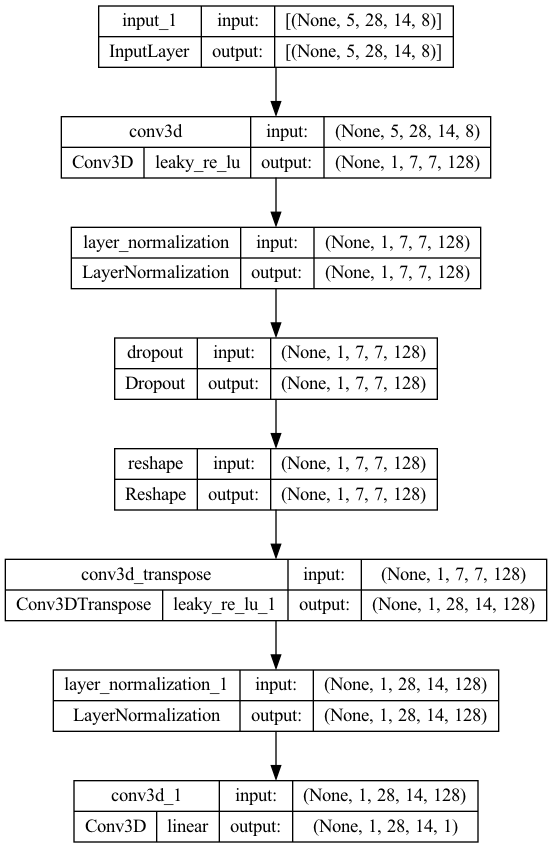
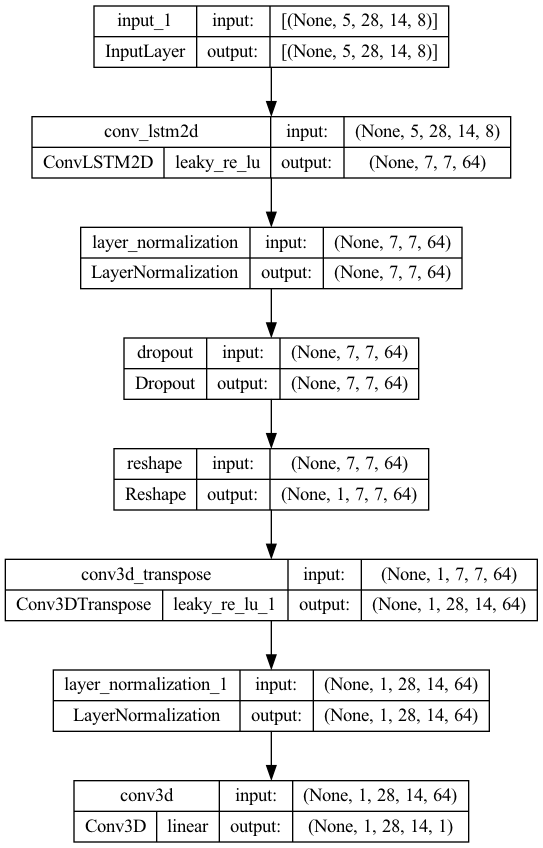
denoisetrans

diff --git a/ml/denoise3D_trans.py b/ml/denoise3D_trans.py
@@ -17,9 +17,9 @@ from ml.ml_utils import Funnel
 from ml.custom_keras_layers import RecombineLayer
 from ml.custom_keras_layers import TransformerBlock
 
-def MakeDenoise(config_path,
-                x_data_shape=(1164, 5, 28, 14, 8), 
-                y_data_shape=(1164, 1, 28, 14, 1)):
+def MakeDenoiseTrans(config_path,
+                     x_data_shape=(1164, 5, 28, 14, 8), 
+                     y_data_shape=(1164, 1, 28, 14, 1)):
     #----------------------------------------------------------------
     ''' Setup '''
     with open(config_path, 'r') as c:
@@ -30,34 +30,36 @@ def MakeDenoise(config_path,
     inner_filters     = config['HYPERPARAMETERS']['denoise_hyperparams_dict']['inner_filters']
     latent_size       = config['HYPERPARAMETERS']['denoise_hyperparams_dict']['latent_size']
     num_latent_layers = config['HYPERPARAMETERS']['denoise_hyperparams_dict']['num_latent_layers']
+    num_trans         = config['HYPERPARAMETERS']['denoise_hyperparams_dict']['num_trans']
+    
+    assert (config['MODEL_TYPE'] == 'DenoiseTrans'), "'MODEL_TYPE' must be 'DenoiseTrans'. Got: "+str(config['MODEL_TYPE'])
 
-    assert (config['MODEL_TYPE'] == 'Denoise'), "'MODEL_TYPE' must be 'Denoise'. Got: "+str(config['MODEL_TYPE'])
-
+    if (num_trans < 0):
+        num_trans = 1
+    
     chanDim = -1
     #----------------------------------------------------------------
     ''' Encoder '''
     input_ = Input(shape=x_data_shape[1:])
     x = input_
     
-    x = Conv3D(filters=outer_filters,
-                kernel_size=(3, 3, 3),
-                strides=(2, 2, 2),
-                padding="same",
-                activation=LeakyReLU(alpha=0.2))(x)
+    x = ConvLSTM2D(filters=outer_filters,
+                   kernel_size=(5, 5), # orig 4, 2
+                   strides=(4, 2),  # orig 4, 2
+                   padding="same",
+                   activation=LeakyReLU(alpha=0.2),
+                   recurrent_activation='tanh',
+                   return_sequences=False)(x)
     #x = BatchNormalization(axis=chanDim)(x)
     x = LayerNormalization()(x)
     x = Dropout(rate=0.1)(x)
 
-    x = Conv3D(filters=inner_filters,
-               kernel_size=(3, 3, 3),
-               strides=(x.shape[1], 2, 2),
-               padding="same",
-               activation=LeakyReLU(alpha=0.2))(x)
-    #x = BatchNormalization(axis=chanDim)(x)
-    x = LayerNormalization()(x)
-    x = Dropout(rate=0.1)(x)
+    x = TransformerBlock(embed_dim=x.shape[-1], # Must always be prev_layer.shape[-1]
+                         num_heads=4,
+                         ff_dim=outer_filters, # Must always be next_layer.shape[-1]
+                         attn_axes=(1, 2, 3))(x)   # If input is (Batch, time, d1,...,dn, embed_dim), must be indices of (d1,...,dn)
+
     pre_latent_size = x.shape
-
     #---------------------------------------------------------------
     ''' Bottleneck '''
 
@@ -69,47 +71,38 @@ def MakeDenoise(config_path,
             x = LayerNormalization()(x)
             x = Dropout(rate=0.1)(x)
         
-        x = Dense(units=np.prod(pre_latent_size[1:]), activation=LeakyReLU(alpha=0.2))(x)
+        x = Dense(units=y_data_shape[1] * np.prod(pre_latent_size[1:]), activation=LeakyReLU(alpha=0.2))(x)
         x = LayerNormalization()(x)
         x = Dropout(rate=0.1)(x)
 
-        x = Reshape((pre_latent_size[1], pre_latent_size[2], pre_latent_size[3], pre_latent_size[4]))(x)
+        x = Reshape((y_data_shape[1], pre_latent_size[2], pre_latent_size[3], pre_latent_size[4]))(x)
+    
+    else:
+        try: # Conv3D
+            x = Reshape((y_data_shape[1], pre_latent_size[2], pre_latent_size[3], pre_latent_size[4]))(x)
+        except IndexError: #ConvLSTM2D
+            x = Reshape((y_data_shape[1], pre_latent_size[1], pre_latent_size[2], pre_latent_size[3]))(x)
     #----------------------------------------------------------------
     ''' Decoder '''
     
-    # loop over our number of filters again, but this time in
-    # reverse order
-    
-    x = Convolution3DTranspose(filters=inner_filters,
-                               kernel_size=(1, 3, 3),
-                               strides=(1, 2, 2),
-                               padding="same",
-                               output_padding=(0, 1, 0),
-                               activation=LeakyReLU(alpha=0.2))(x)
-    #x = BatchNormalization(axis=chanDim)(x)
-    x = LayerNormalization()(x)
-    x = Dropout(rate=0.1)(x)
-    # apply a single CONV_TRANSPOSE layer used to recover the
-    # original depth of the image
     x = Convolution3DTranspose(filters=outer_filters, 
-                               kernel_size=(1, 3, 3),
-                               strides=(1, 2, 2),
+                               kernel_size=(y_data_shape[1], 5, 5),
+                               strides=(y_data_shape[1], 4, 2),
                                padding="same",
                                activation=LeakyReLU(alpha=0.2))(x)
     #x = BatchNormalization(axis=chanDim)(x)
     x = LayerNormalization()(x)
 
-    output = Convolution3DTranspose(filters=y_data_shape[4], 
-                                    kernel_size=(1, 3, 3),
-                                    strides=(1, 1, 1),
-                                    padding="same",
-                                    activation='linear')(x)
+    output = Conv3D(filters=y_data_shape[4], 
+                    kernel_size=(1, 1, 1),
+                    strides=(1, 1, 1),
+                    padding="same",
+                    activation='linear')(x)
     #----------------------------------------------------------------
-    
     autoencoder = keras.Model(input_, output, name="autoencoder")
     
     print(autoencoder.summary())
-    keras.utils.plot_model(autoencoder, show_shapes=True, show_layer_activations=True, to_file=os.path.join('SavedModels/Figs', 'Denoise3DOrig.png'))
+    keras.utils.plot_model(autoencoder, show_shapes=True, show_layer_activations=True, to_file=os.path.join('SavedModels/Figs', 'Denoise3D1StageTrans.png'))
 
     return autoencoder
 #====================================================================
@@ -119,10 +112,8 @@ def MakeDenoise(config_path,
 # autoencoder = MakeDenoise('config.yml',
 #                           x_data_shape=x_train.shape,
 #                           y_data_shape=y_train.shape)
-# keras.utils.plot_model(autoencoder, show_shapes=True, show_layer_activations=True, expand_nested=True, to_file=os.path.join('SavedModels/Figs', 'denoise3D.png'))
-# print(autoencoder.summary())
 
-# autoencoder.compile(loss='mse',optimizer=keras.optimizers.Adam(lr=0.001))
+# autoencoder.compile(loss='mse',optimizer=keras.optimizers.Adam(learning_rate=0.001))
 
 # history = autoencoder.fit(x=x_train,
 #                           y=y_train,

diff --git a/ml/denoise3D.py b/ml/denoise3D.py
@@ -15,7 +15,7 @@ from keras.layers import Input, Concatenate, TimeDistributed, Dense, Conv2D, Con
 sys.path.append(os.getcwd())
 from ml.ml_utils import Funnel
 from ml.custom_keras_layers import RecombineLayer
-
+from ml.custom_keras_layers import TransformerBlock
 
 def MakeDenoise(config_path,
                 x_data_shape=(1164, 5, 28, 14, 8), 
@@ -39,11 +39,13 @@ def MakeDenoise(config_path,
     input_ = Input(shape=x_data_shape[1:])
     x = input_
     
-    x = Conv3D(filters=outer_filters,
-               kernel_size=(x.shape[1], 5, 5), # orig 4, 2
-               strides=(x.shape[1], 4, 2),  # orig 4, 2
-               padding="same",
-               activation=LeakyReLU(alpha=0.2))(x)
+    x = ConvLSTM2D(filters=outer_filters,
+                   kernel_size=(5, 5), # orig 4, 2
+                   strides=(4, 2),  # orig 4, 2
+                   padding="same",
+                   activation=LeakyReLU(alpha=0.2),
+                   recurrent_activation='tanh',
+                   return_sequences=False)(x)
     #x = BatchNormalization(axis=chanDim)(x)
     x = LayerNormalization()(x)
     x = Dropout(rate=0.1)(x)
@@ -67,7 +69,10 @@ def MakeDenoise(config_path,
         x = Reshape((y_data_shape[1], pre_latent_size[2], pre_latent_size[3], pre_latent_size[4]))(x)
     
     else:
-        x = Reshape((y_data_shape[1], pre_latent_size[2], pre_latent_size[3], pre_latent_size[4]))(x)
+        try: # Conv3D
+            x = Reshape((y_data_shape[1], pre_latent_size[2], pre_latent_size[3], pre_latent_size[4]))(x)
+        except IndexError: #ConvLSTM2D
+            x = Reshape((y_data_shape[1], pre_latent_size[1], pre_latent_size[2], pre_latent_size[3]))(x)
     #----------------------------------------------------------------
     ''' Decoder '''
     
@@ -85,11 +90,10 @@ def MakeDenoise(config_path,
                     padding="same",
                     activation='linear')(x)
     #----------------------------------------------------------------
-    
     autoencoder = keras.Model(input_, output, name="autoencoder")
     
     print(autoencoder.summary())
-    keras.utils.plot_model(autoencoder, show_shapes=True, show_layer_activations=True, to_file=os.path.join('SavedModels/Figs', 'Denoise3D1StageTest.png'))
+    keras.utils.plot_model(autoencoder, show_shapes=True, show_layer_activations=True, to_file=os.path.join('SavedModels/Figs', 'Denoise3D1Stage.png'))
 
     return autoencoder
 #====================================================================
@@ -99,8 +103,6 @@ def MakeDenoise(config_path,
 # autoencoder = MakeDenoise('config.yml',
 #                           x_data_shape=x_train.shape,
 #                           y_data_shape=y_train.shape)
-# keras.utils.plot_model(autoencoder, show_shapes=True, show_layer_activations=True, expand_nested=True, to_file=os.path.join('SavedModels/Figs', 'denoise3D.png'))
-# print(autoencoder.summary())
 
 # autoencoder.compile(loss='mse',optimizer=keras.optimizers.Adam(learning_rate=0.001))
 

diff --git a/ml/train_test_keras.py b/ml/train_test_keras.py
@@ -21,8 +21,9 @@ from ml.conv_lstm import MakeConvLSTM
 from ml.conv import MakeConv
 from ml.rbdn import MakeRBDN
 from ml.splitter import MakeSplitter
-#from ml.denoise3D import MakeDenoise
-from ml.denoise3DOrig import MakeDenoise
+from ml.denoise3D import MakeDenoise
+#from ml.denoise3DOrig import MakeDenoise
+from ml.denoise3D_trans import MakeDenoiseTrans
 from ml.linear import MakeLinear
 from ml.dense import MakeDense
 from ml.dense_trans import MakeDenseTrans
@@ -41,7 +42,7 @@ def TrainKerasModel(config_path, model_name=None, model_save_path='/Users/joshua
     with open(config_path, 'r') as c:
         config = yaml.load(c, Loader=yaml.FullLoader)
 
-    assert (config['MODEL_TYPE'] in ['Linear', 'Dense', 'Conv', 'ConvLSTM', 'RBDN', 'Split', 'Denoise', 'Trans', 'ConvTrans', 'ConvLSTMTrans']), "To use this, 'MODEL_TYPE' must be 'Linear', 'Dense', 'Conv', 'ConvLSTM', 'RBDN', 'Split', 'Denoise', 'Trans', 'ConvTrans', 'ConvLSTMTrans'. Got: "+str(config['MODEL_TYPE'])
+    assert (config['MODEL_TYPE'] in ['Linear', 'Dense', 'Conv', 'ConvLSTM', 'RBDN', 'Split', 'Denoise', 'DenoiseTrans', 'Trans', 'ConvTrans', 'ConvLSTMTrans']), "To use this, 'MODEL_TYPE' must be 'Linear', 'Dense', 'Conv', 'ConvLSTM', 'RBDN', 'Split', 'Denoise', 'DenoiseTrans', 'Trans', 'ConvTrans', 'ConvLSTMTrans'. Got: "+str(config['MODEL_TYPE'])
 
     patience = config['PATIENCE']
     model_fig_save_path = config['MODEL_FIG_SAVE_PATH']
@@ -100,6 +101,11 @@ def TrainKerasModel(config_path, model_name=None, model_save_path='/Users/joshua
         batch_size = config['HYPERPARAMETERS']['split_hyperparams_dict']['batch_size']
     
     elif (config['MODEL_TYPE'] == 'Denoise'):
+        model = MakeDenoise(config_path, np.shape(x_train), np.shape(y_train))
+        num_epochs = config['HYPERPARAMETERS']['denoise_hyperparams_dict']['epochs']
+        batch_size = config['HYPERPARAMETERS']['denoise_hyperparams_dict']['batch_size']
+    
+    elif (config['MODEL_TYPE'] == 'DenoiseTrans'):
         model = MakeDenoise(config_path, np.shape(x_train), np.shape(y_train))
         num_epochs = config['HYPERPARAMETERS']['denoise_hyperparams_dict']['epochs']
         batch_size = config['HYPERPARAMETERS']['denoise_hyperparams_dict']['batch_size']
@@ -245,7 +251,7 @@ def TestKerasModel(config_path, model_name):
     with open(model_architecture, 'r') as json_file:
         loaded_model_json = json_file.read()
 
-    if (config['MODEL_TYPE'] == 'Trans'):
+    if ('Trans' in config['MODEL_TYPE']):
         model = keras.models.model_from_json(loaded_model_json, custom_objects={"TransformerBlock":TransformerBlock})
     elif (config['MODEL_TYPE'] == 'Split'):
         model = keras.models.model_from_json(loaded_model_json, custom_objects={"RecombineLayer":RecombineLayer})

diff --git a/main.py b/main.py
@@ -60,12 +60,18 @@ elif (model_type == 'RBDN'):
                    model_name='RBDN_reg='+short[region]+'_h=5_f=1_In=OFTUVXYD_Out=O_e='+str(e))
 #--------------------------------------------------------------------
 elif (model_type == 'Denoise'):
-    print("fdhgfjhgfjhgfjhgf\nkdjydjycjyf\njfdjhfdgcikv")
     e = config['HYPERPARAMETERS']['denoise_hyperparams_dict']['epochs']
     TrainKerasModel('config.yml',
                     model_save_path=os.path.join(model_save_path, 'Denoise'))
     TestKerasModel('config.yml',
                    model_name='Denoise_reg='+short[region]+'_h=5_f=1_In=OFTUVXYD_Out=O_e='+str(e))
+#--------------------------------------------------------------------
+elif (model_type == 'DenoiseTrans'):
+    e = config['HYPERPARAMETERS']['denoise_hyperparams_dict']['epochs']
+    TrainKerasModel('config.yml',
+                    model_save_path=os.path.join(model_save_path, 'DenoiseTrans'))
+    TestKerasModel('config.yml',
+                   model_name='DenoiseTrans_reg='+short[region]+'_h=5_f=1_t=1_In=OFTUVXYD_Out=O_e='+str(e))
 #-------------------------------------------------------------------- 
 elif (model_type == 'ConvLSTM'):
     e = config['HYPERPARAMETERS']['trans_hyperparams_dict']['epochs']

diff --git a/ml/custom_keras_layers.py b/ml/custom_keras_layers.py
@@ -63,16 +63,17 @@ class MaskedPositionEmbedding(keras.layers.Layer):
     
 
 class TransformerBlock(keras.layers.Layer):
-    def __init__(self, embed_dim, num_heads, ff_dim, rate=0.1, **kwargs):
+    def __init__(self, embed_dim, num_heads, ff_dim, rate=0.1, attn_axes=-1, **kwargs):
         super(TransformerBlock, self).__init__()
         self.embed_dim = embed_dim
         self.num_heads = num_heads
         self.ff_dim    = ff_dim
         self.rate      = rate
+        self.attn_axes = attn_axes
         self.att = MultiHeadAttention(num_heads=num_heads,
-                                                   key_dim=embed_dim)
-        self.ffn = keras.Sequential(
-                                    [Dense(ff_dim, activation="gelu"),
+                                      key_dim=embed_dim,
+                                      attention_axes=attn_axes)
+        self.ffn = keras.Sequential([Dense(ff_dim, activation="gelu"),
                                      Dense(embed_dim),])
         self.layernorm1 = LayerNormalization(epsilon=1e-6)
         self.layernorm2 = LayerNormalization(epsilon=1e-6)

diff --git a/ml/ml_utils.py b/ml/ml_utils.py
@@ -119,6 +119,12 @@ def NameModel(config_path, prefix=''):
             print("model_name:", model_name)
             epochs = config['HYPERPARAMETERS']['denoise_hyperparams_dict']['epochs']
         # - - - - - - - - - - - - - - - - - - - - - - - - - - - - - - - -
+        elif (config['MODEL_TYPE'] == 'DenoiseTrans'):
+            num_trans = config['HYPERPARAMETERS']['denoise_hyperparams_dict']['num_trans']
+            model_name += 'DenoiseTrans_reg='+shorthand_dict[region]+'_h='+str(int(history_len))+'_f='+str(int(target_len))+'_t='+str(num_trans)+'_In='
+            print("model_name:", model_name)
+            epochs = config['HYPERPARAMETERS']['denoise_hyperparams_dict']['epochs']
+        # - - - - - - - - - - - - - - - - - - - - - - - - - - - - - - - -
         elif (config['MODEL_TYPE'] == 'Trans'):
             model_name += 'Trans_reg='+shorthand_dict[region]+'_h='+str(int(history_len))+'_f='+str(int(target_len))+'_In='
             print("model_name:", model_name)
